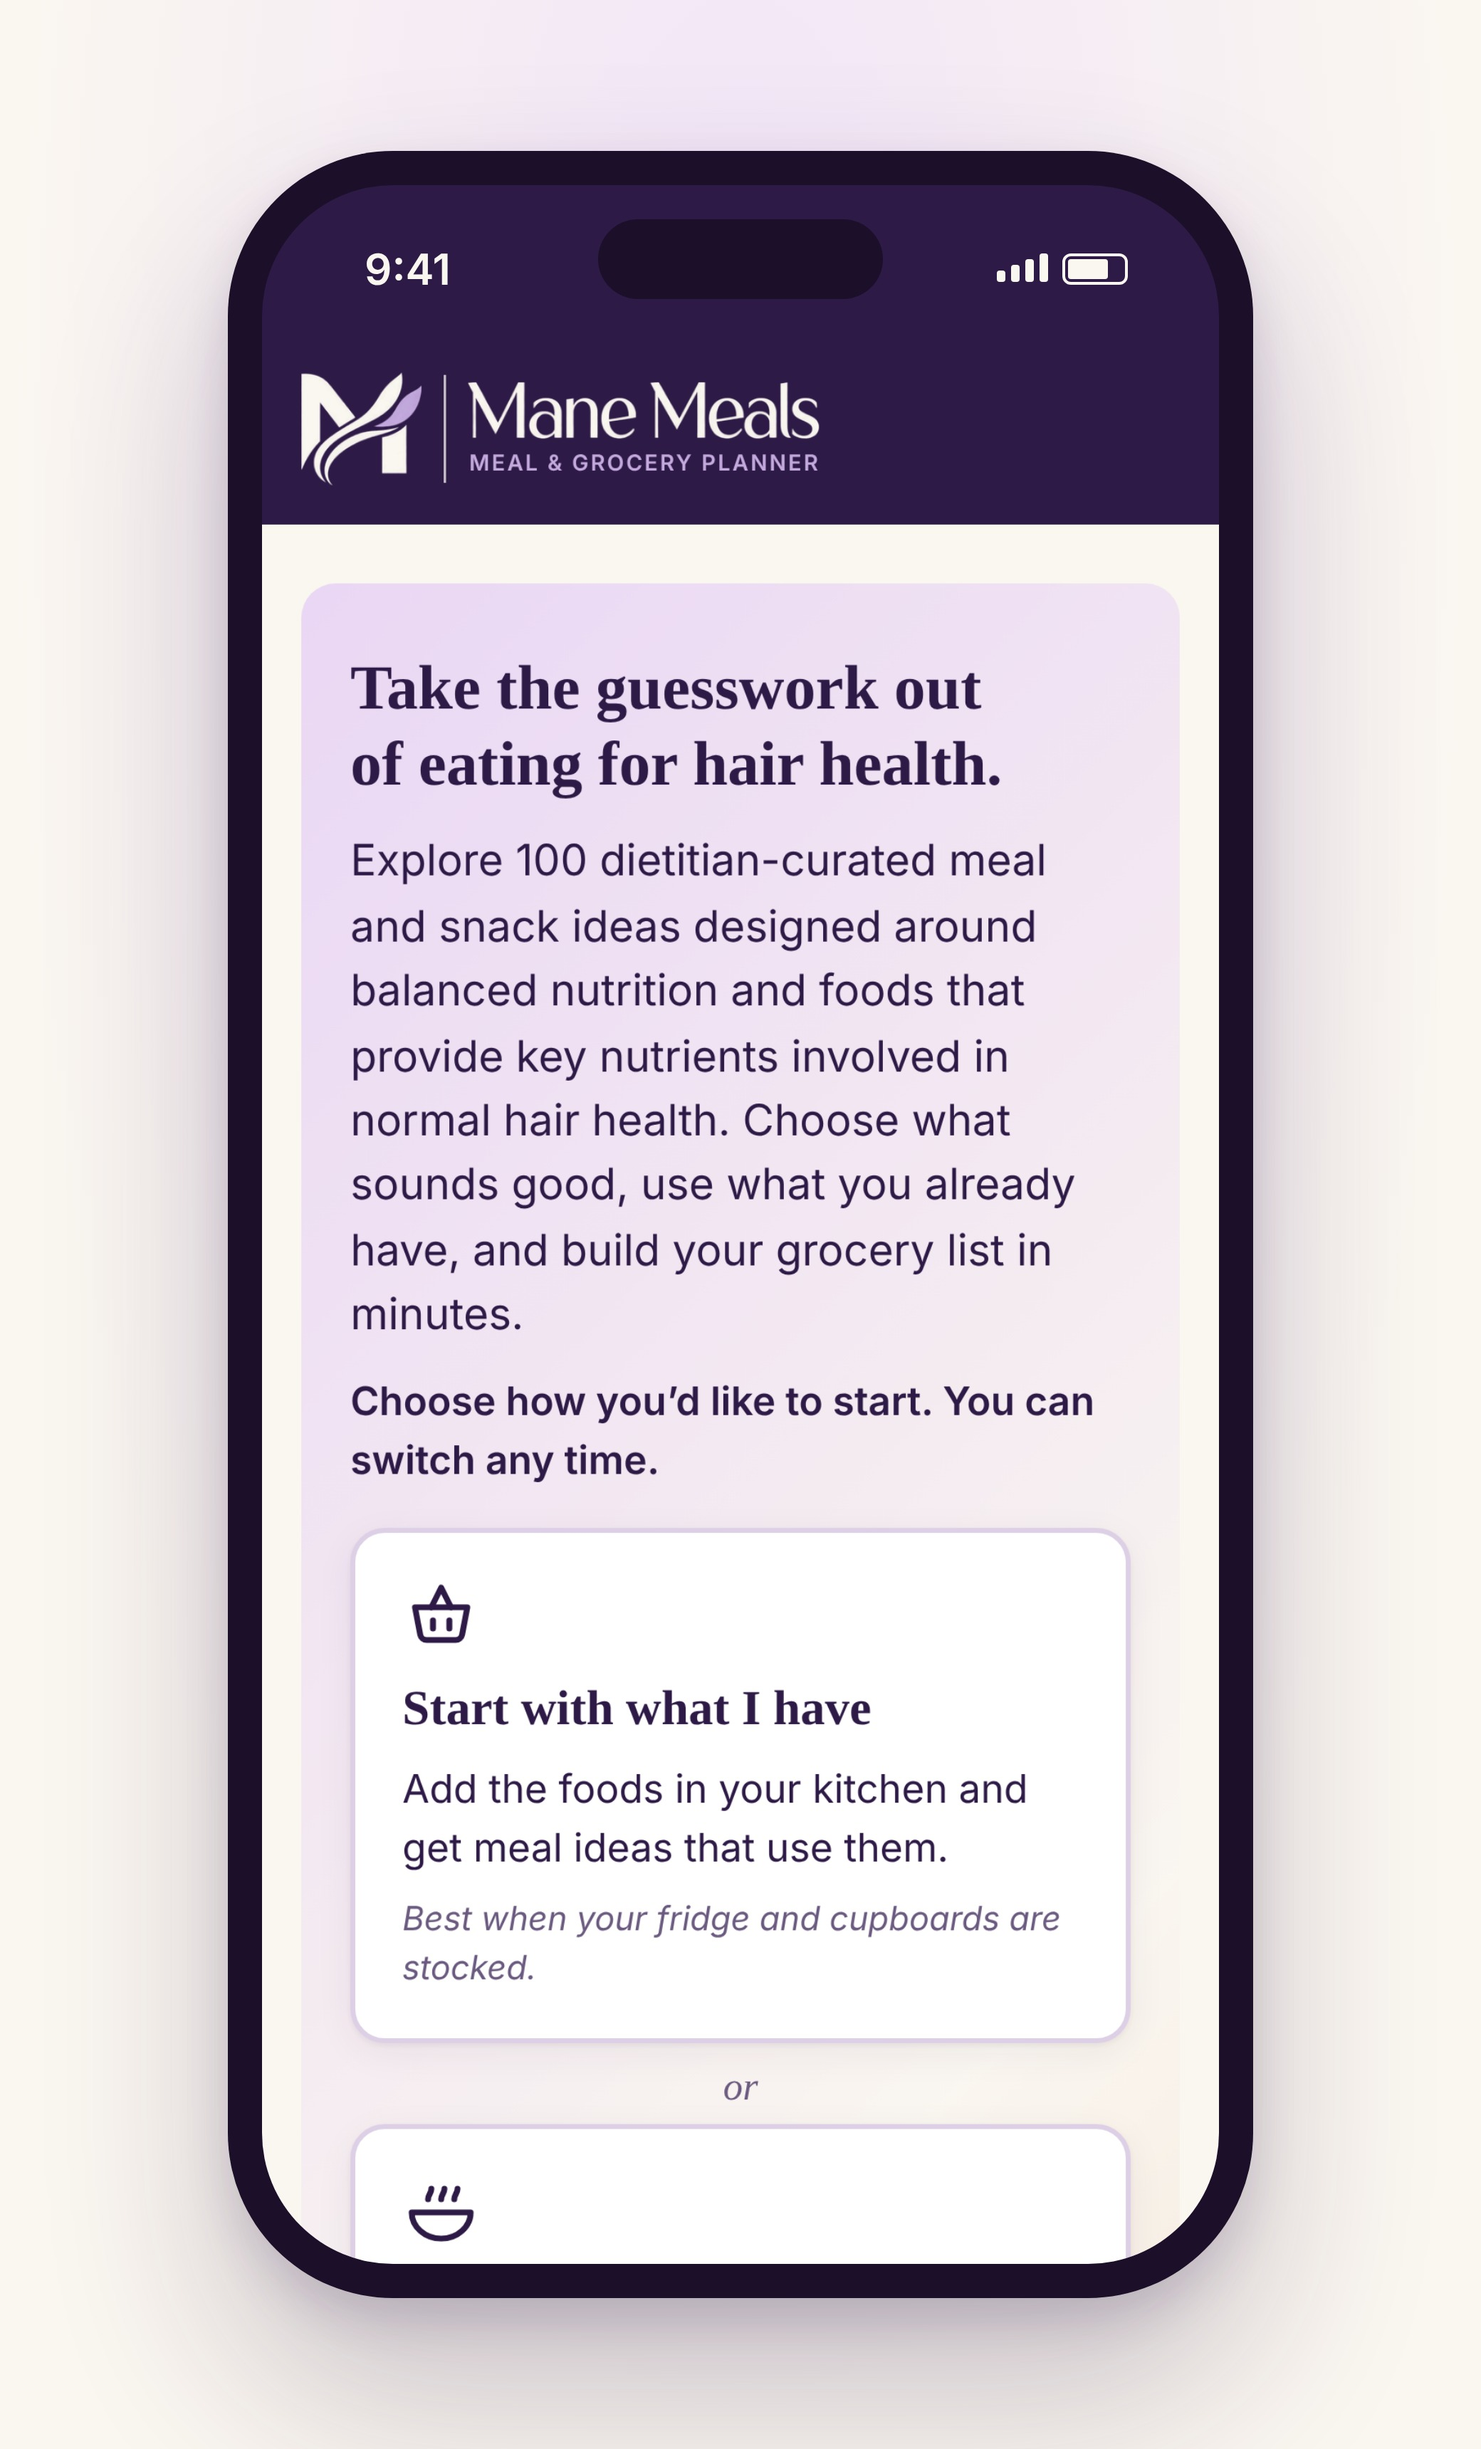
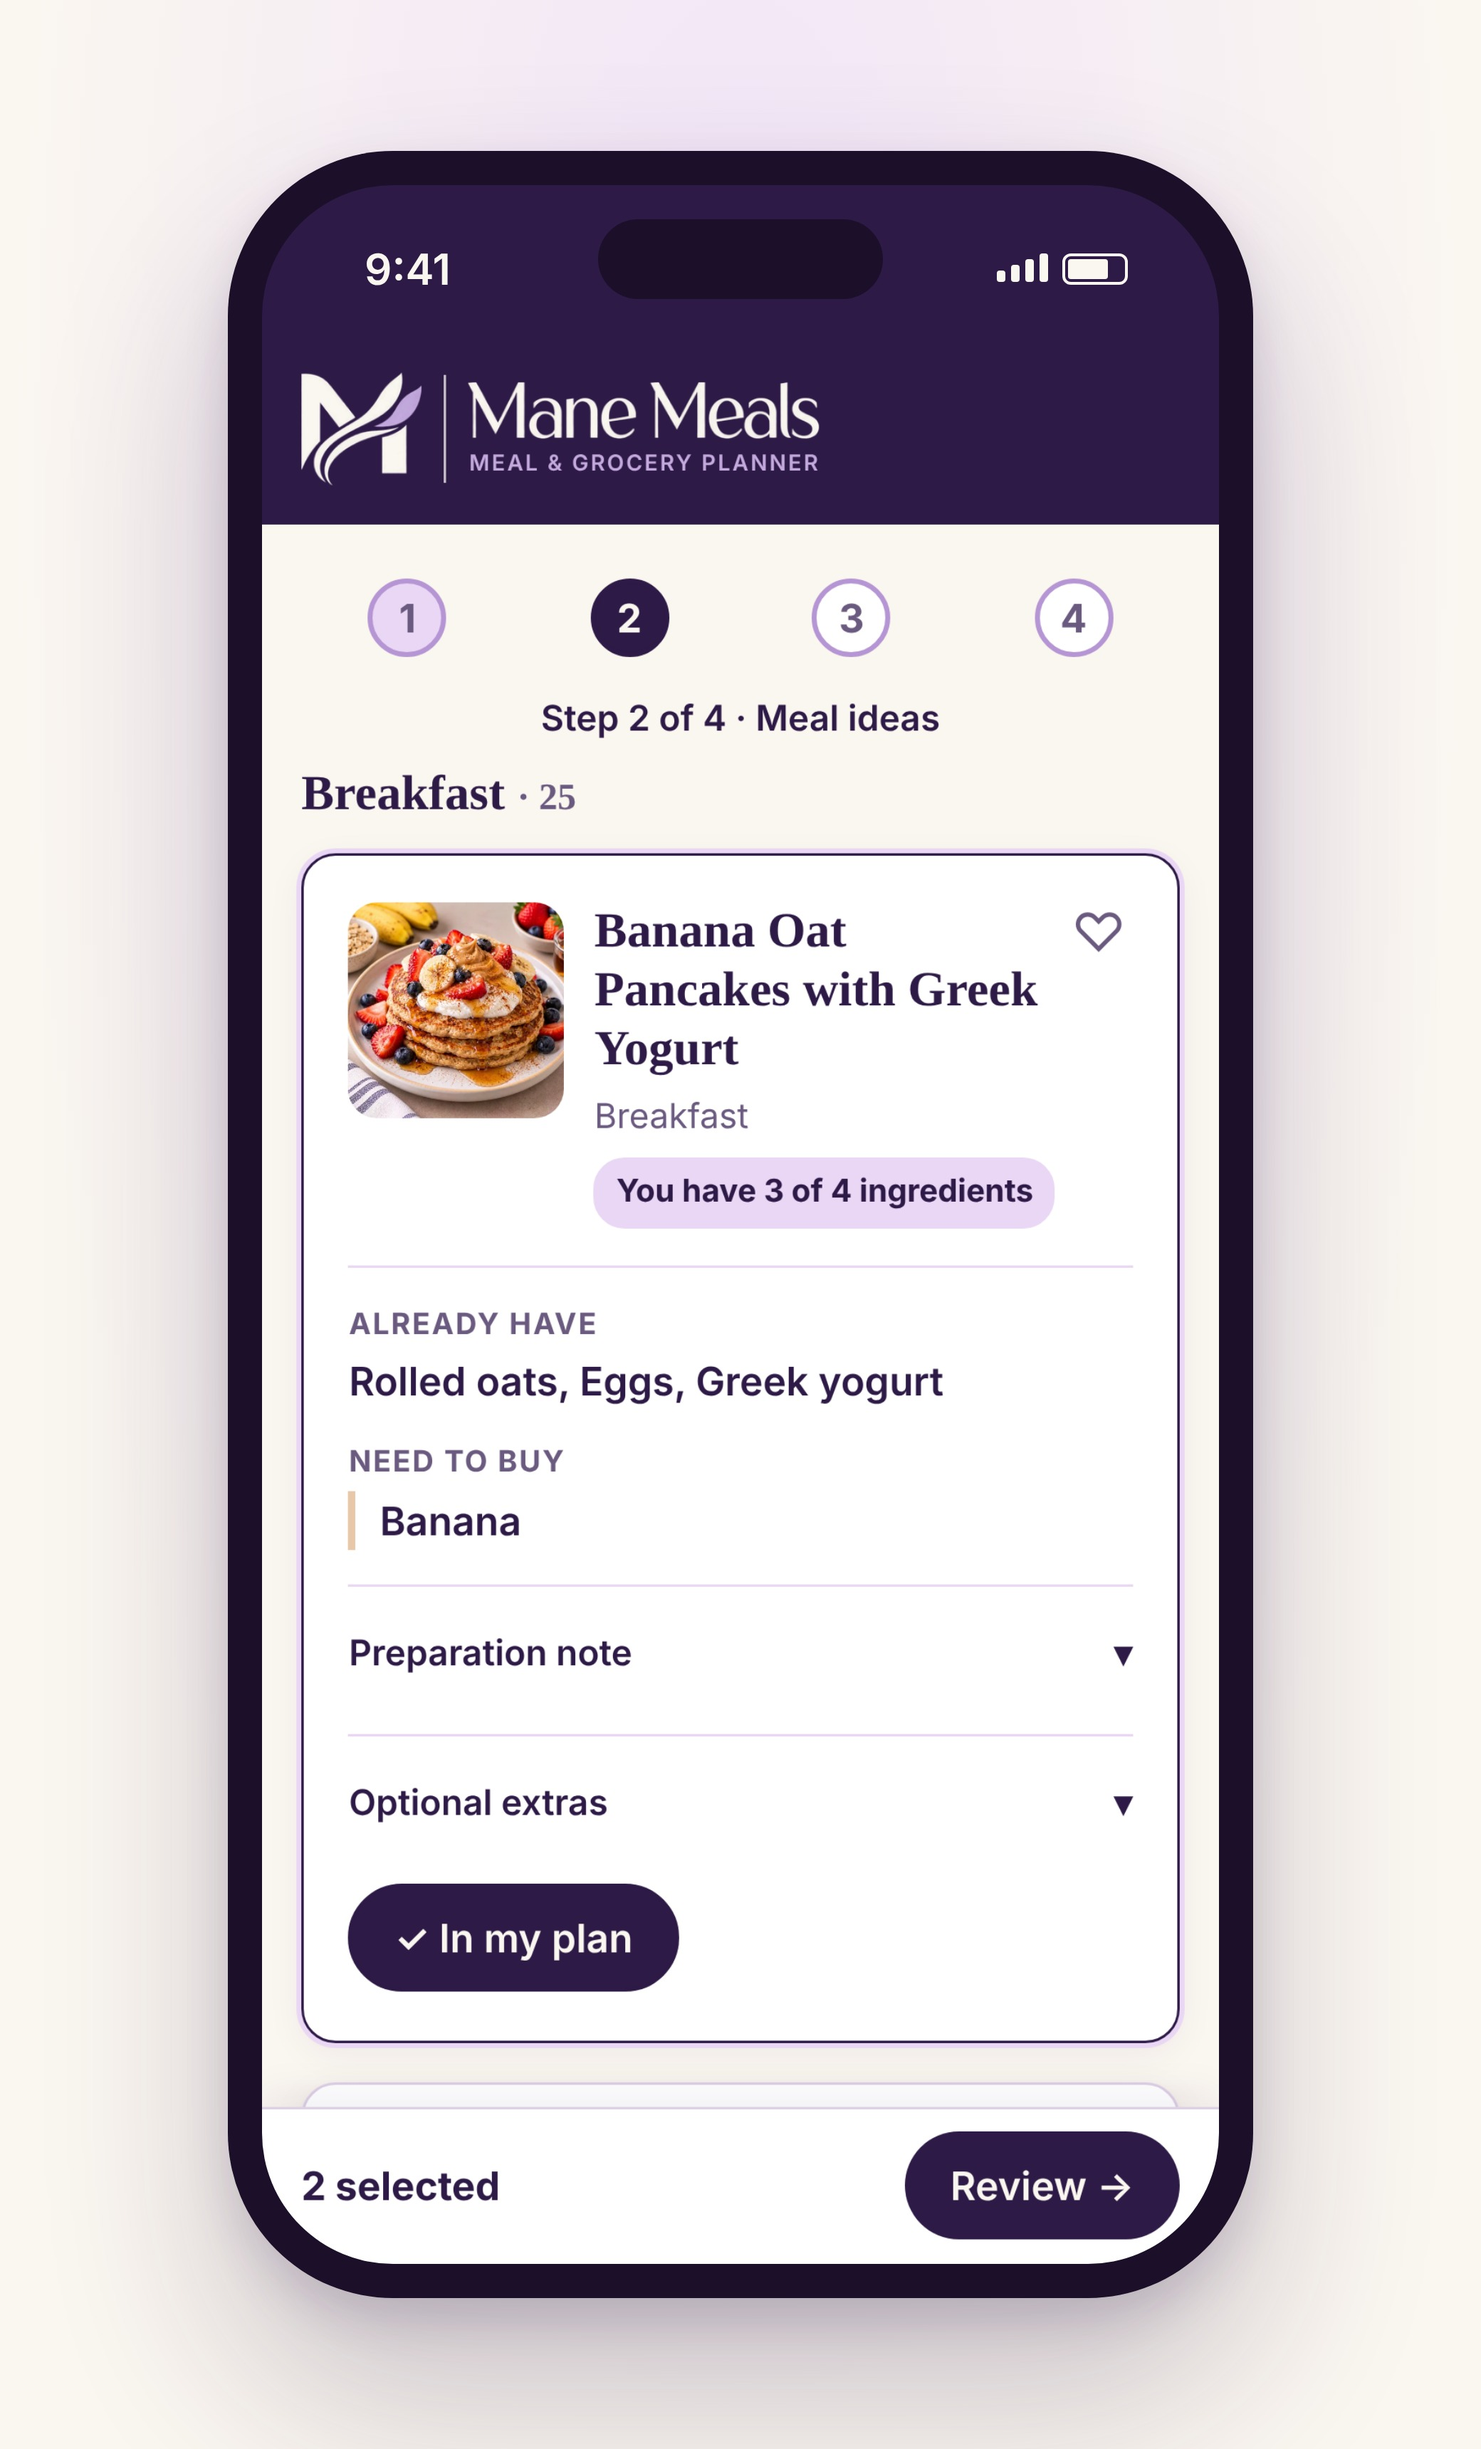
Single-phone mockup: show the planner working instead of the home page
Header + step tracker + a meal card (photo, "You have 3 of 4
ingredients", Already have / Need to buy, In my plan) + the
"2 selected · Review" bar. Intro, search and filters are hidden for
this image only.

Claude-Session: https://claude.ai/code/session_01BXGPbWh13sUqz46jQz81AH

Changed region(s): [[0.1875, 0.2177, 0.8125, 0.9331], [0.6875, 0.2177, 0.75, 0.2799]]

diff --git a/marketing/README.md b/marketing/README.md
@@ -3,8 +3,10 @@
 - `mane-meals-mockup.png` / `.jpg` (3200×2360): three phones showing the planner's flow —
   add what's in your kitchen → pick meal ideas → get your grocery list. Made from real
   screenshots of the app with a sample plan.
-- `mane-meals-phone-transparent.png` (2080×3440): one phone showing the home screen with the
-  Mane Meals header, on a transparent background to place on any page.
+- `mane-meals-phone-transparent.png` (2080×3440): one phone with the Mane Meals header and the
+  meal-ideas screen at work (step tracker, a meal card with "You have 3 of 4 ingredients",
+  Already have / Need to buy, and the "2 selected · Review" bar), on a transparent background.
+  For this image the step intro, search and filters are hidden so the card sits under the header.
 - `mane-meals-phone-cream.jpg`: the same phone on a soft cream background.
 
 ## Regenerating
@@ -16,4 +18,4 @@
 2. Copy `public/brand/mane-meals-mark.png` and `public/brand/mane-meals-wordmark.png` next to `mockup.html`.
 3. `node render.mjs` — renders `mane-meals-mockup.png` at 2× (3200×2360).
 
-For the single phone: `node capture-single.mjs` (takes `s0-home.png`), then `node render-single.mjs`.
+For the single phone: `node capture-single.mjs` (takes `s0-home.png`, the meal-ideas screen), then `node render-single.mjs`.
